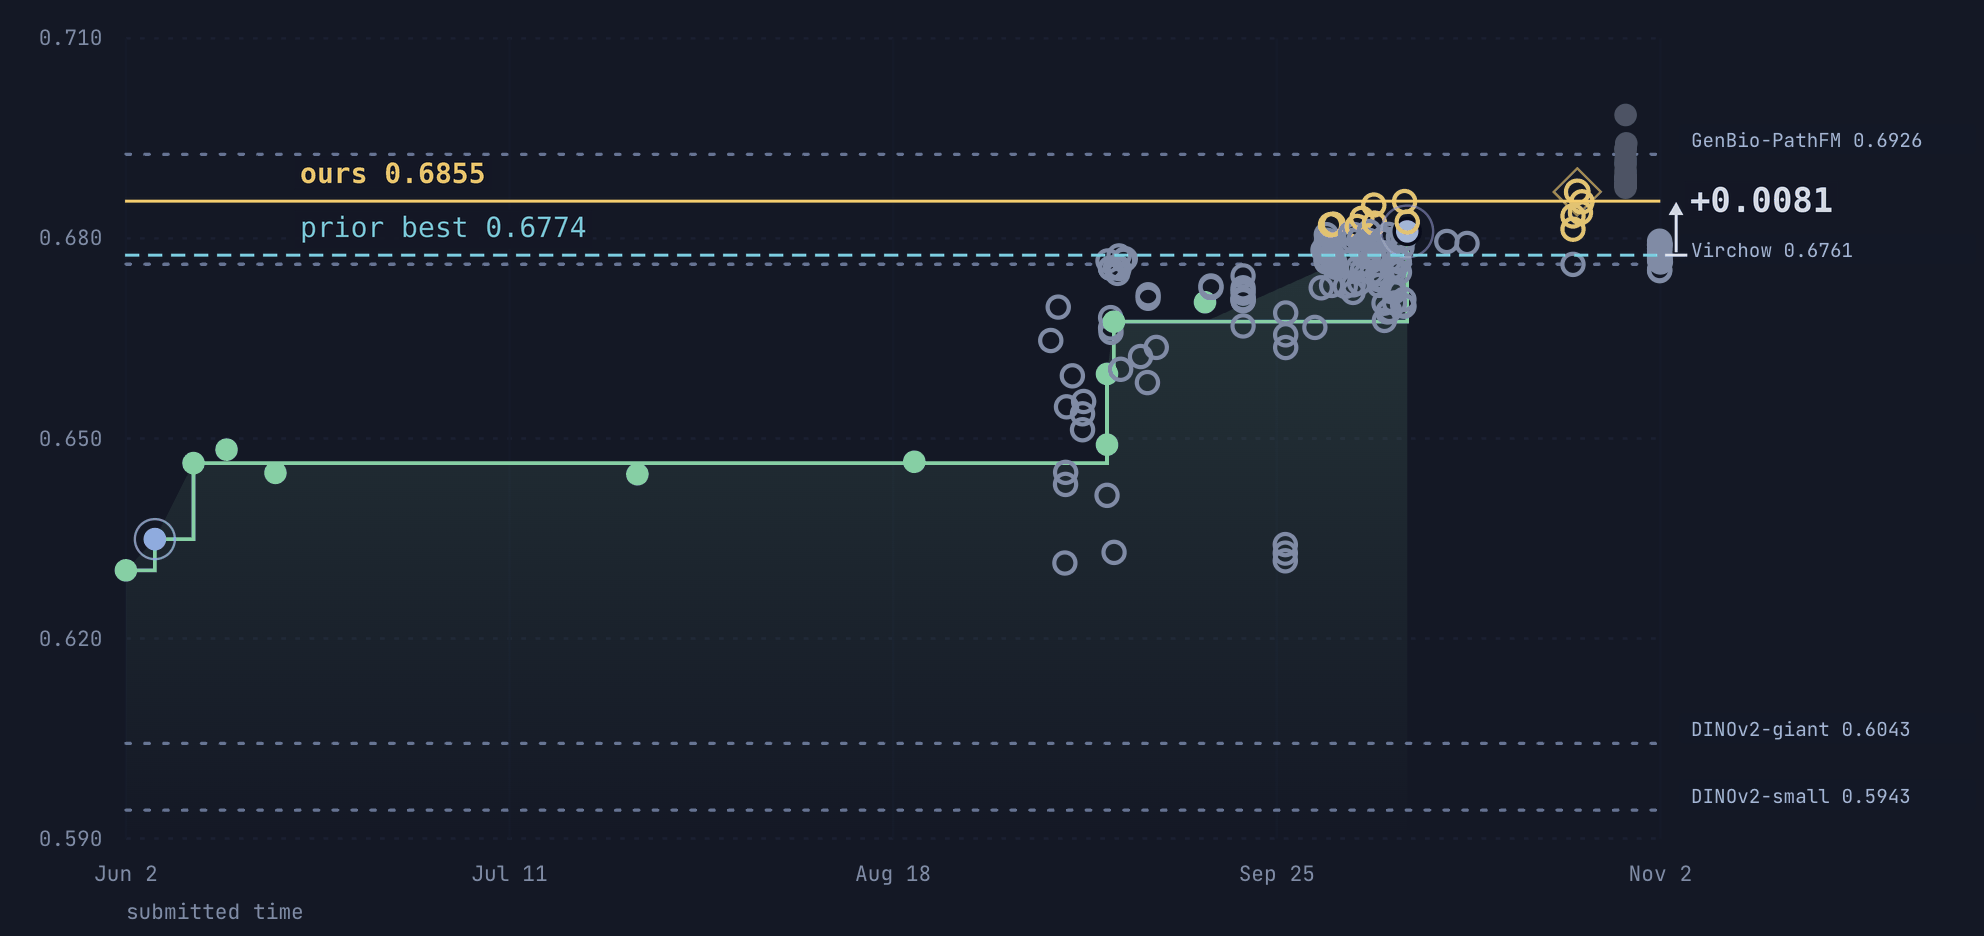
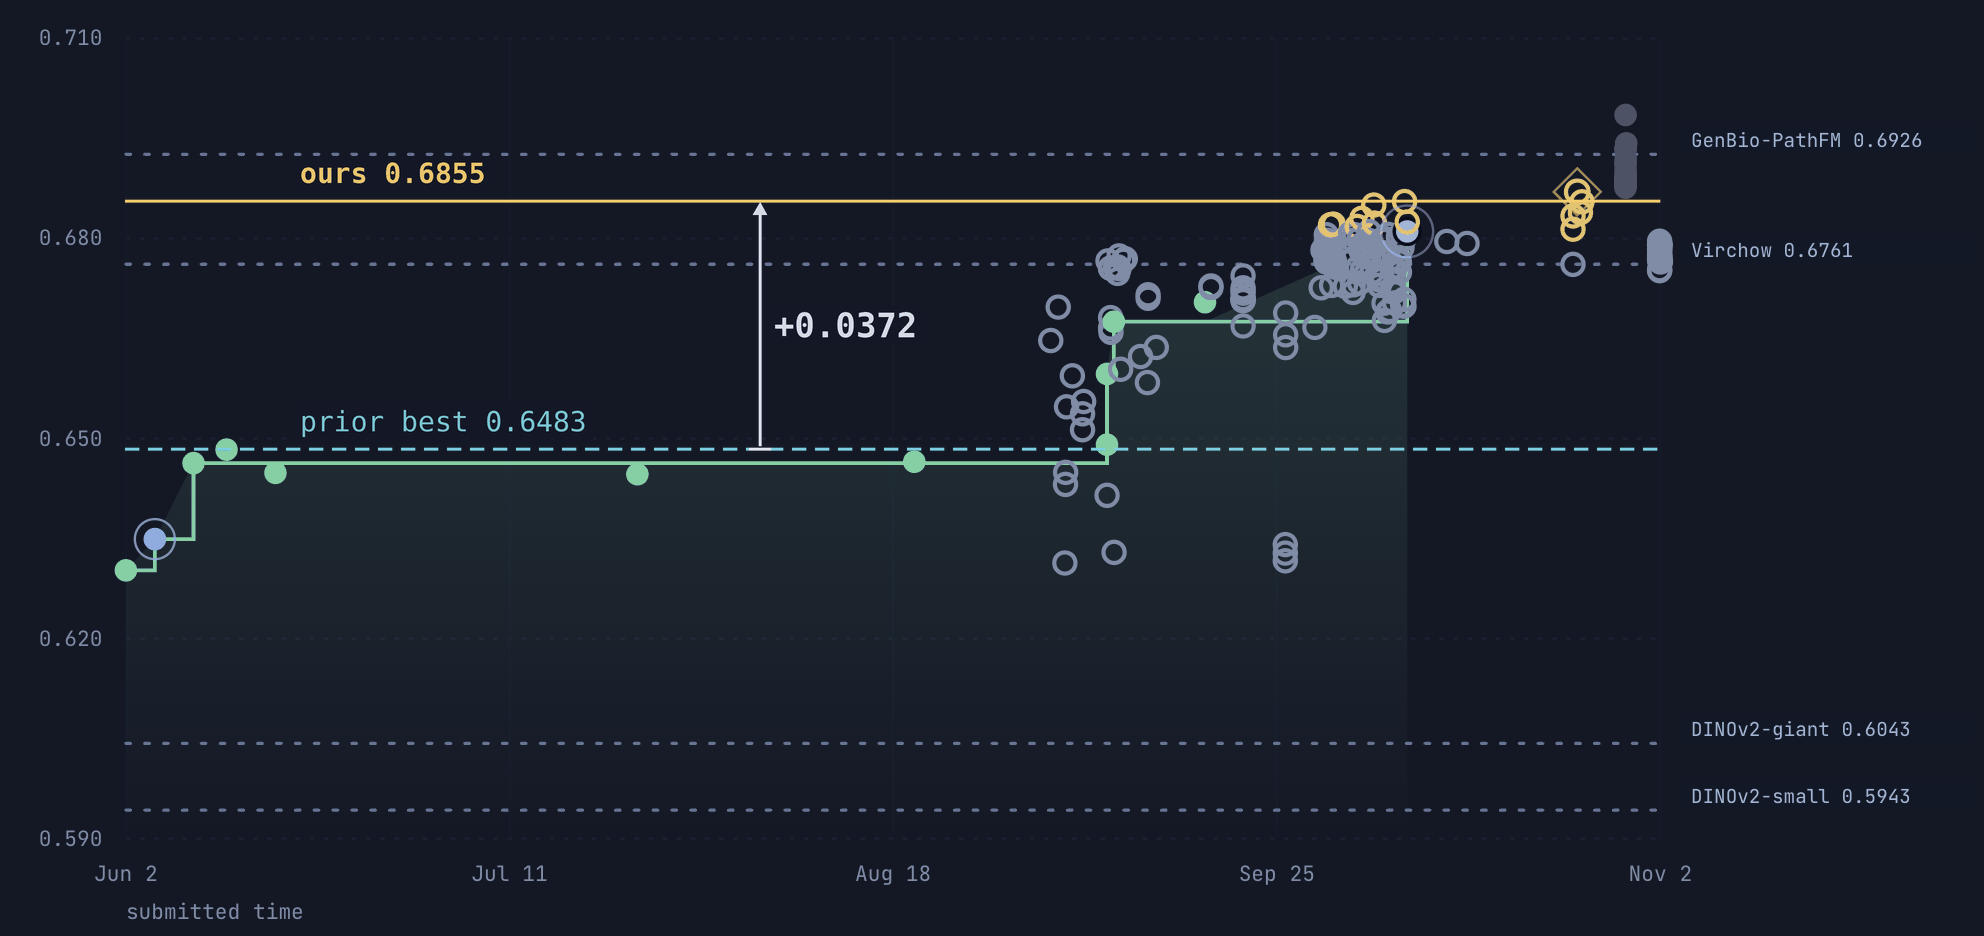
README: nanopath chart uses best-before-first-submission

diff --git a/README.md b/README.md
@@ -11,12 +11,13 @@ model: paired seeds, empirical-Bayes shrinkage, and confirm stages on fresh seed
 improved (best 0.5644); the validated leader is our autonomous-loop run 0.5618
 ([run_sub_a48ee1990d](https://labless.dev/runs/run_sub_a48ee1990d)).
 
-![nanopath v2: prior best 0.6774, ours 0.6855](docs/img/nanopath_progress.png)
+![nanopath v2: prior best 0.6483, ours 0.6855](docs/img/nanopath_progress.png)
 
-**nanopath v2:** prior best 0.6774 (another contributor, Sep 10) → ours 0.6855 on Oct 8
-([run_sub_89113d508d](https://labless.dev/runs/run_sub_89113d508d), unvalidated), +0.0081. The validated leader is our
-0.6810 run ([run_sub_6da523428f](https://labless.dev/runs/run_sub_6da523428f)); another contributor's later unvalidated
-0.6870 is higher than our best.
+**nanopath v2:** prior best 0.6483 (best before our first submission, Jun 17) → ours 0.6855 on Oct 8
+([run_sub_89113d508d](https://labless.dev/runs/run_sub_89113d508d), unvalidated), +0.0372; much of the Jun–Sep rise
+(to 0.6774) came from other contributors. The validated leader is our 0.6810 run
+([run_sub_6da523428f](https://labless.dev/runs/run_sub_6da523428f)); another contributor's later unvalidated 0.6870 is
+higher than our best.
 
 The division of labour is strict. Plain Python owns all control flow: budgets, seeds, the queue, SLURM
 submission, retries, resume, and every number. LLM agents only do what needs judgement. They propose an idea,
